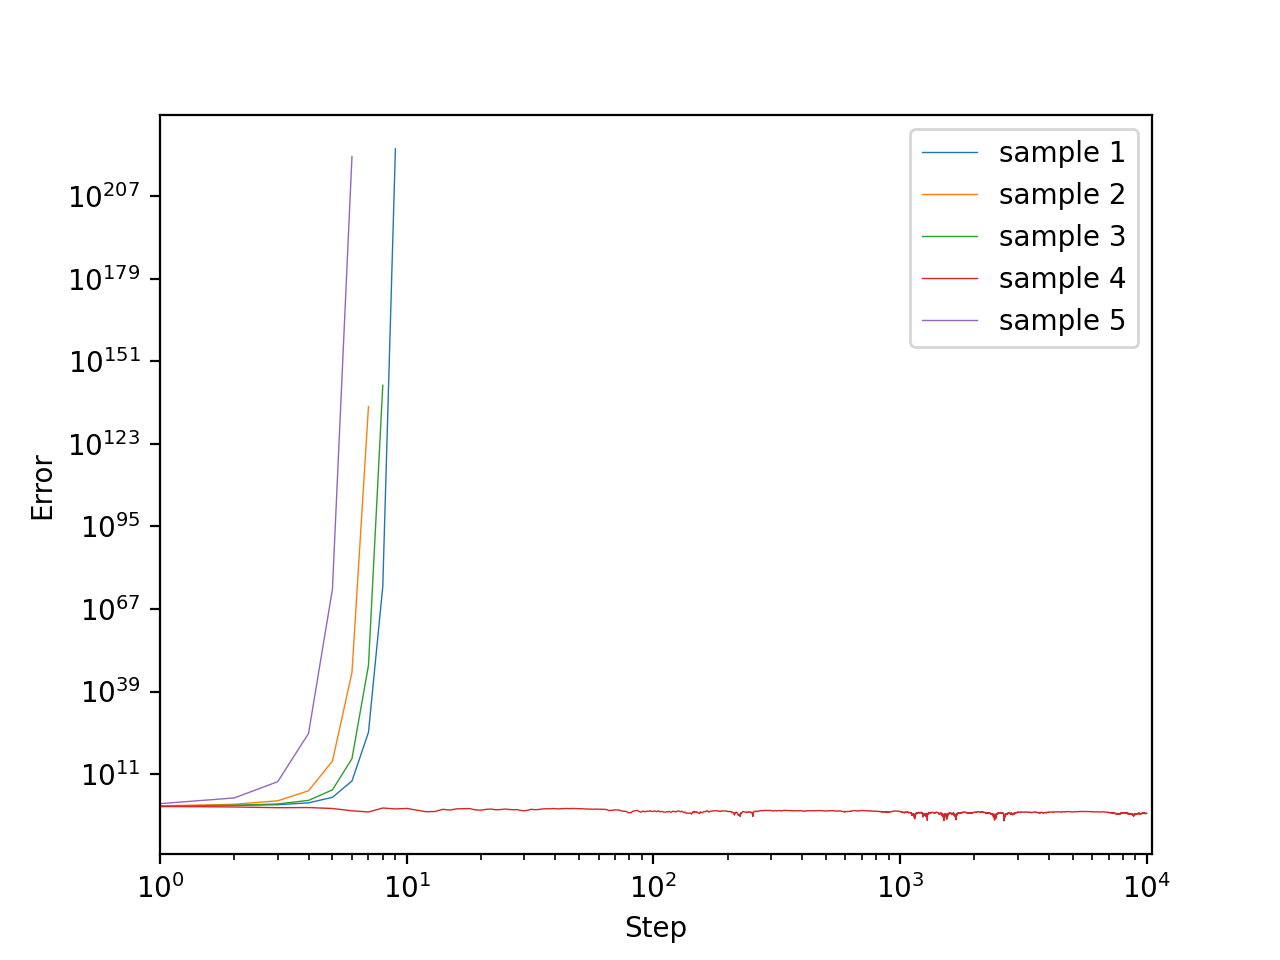
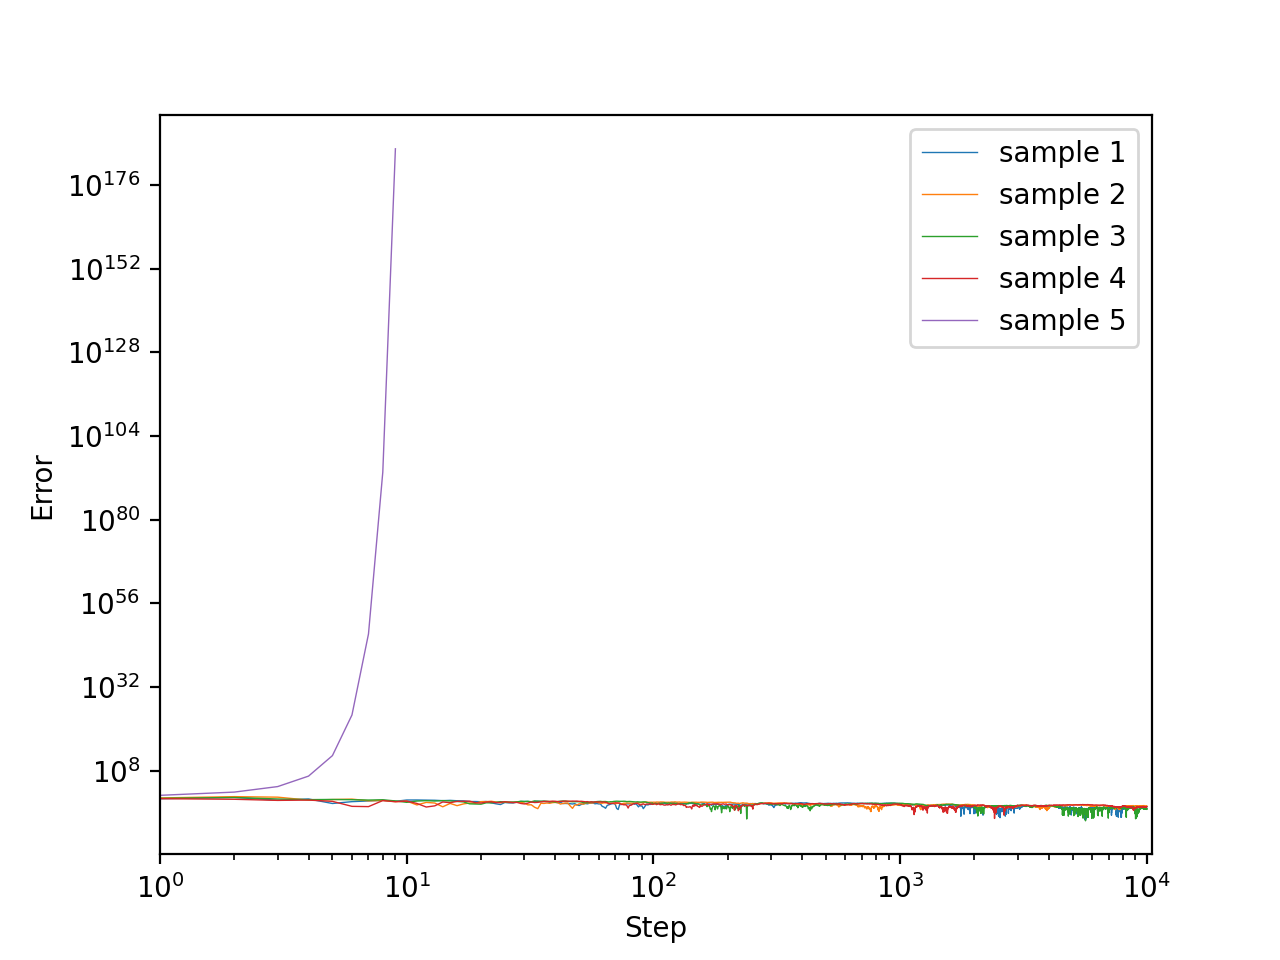
use Dvoretzky version instead of Blum

diff --git a/robbins-monro/run.py b/robbins-monro/run.py
@@ -5,25 +5,20 @@ from pathlib import Path
 import numpy as np
 
 
-################# Manual setup ##################
+################## Manual setup ##################
 
-target_value = 0.0   # α
-true_solution = 0.0  # θ
+true_solution = 0.0  # The root θ, only used for computing errors
 
 
 def true_func(x: float) -> float:
     return x + 2.0 * np.sin(x)
 
 
-def noise(x: float) -> float:
-    sigma = 1.0
-    return np.random.normal(loc=0.0, scale=sigma)
-
-#################################################
-
-
 def observe(x: float) -> float:
-    return true_func(x) + noise(x)
+    sigma = 1.0
+    return np.random.normal(loc=true_func(x), scale=sigma)
+
+##################################################
 
 
 def robbins_monro(n_steps: int, step_coef: float, step_power: float) -> list[float]:
@@ -36,7 +31,7 @@ def robbins_monro(n_steps: int, step_coef: float, step_power: float) -> list[flo
     for i in range(1, n_steps):
         a = step_coef / i**step_power
         y = observe(x)
-        x += a * (target_value - y)
+        x -= a * y
         path.append(x)
     return path
 

diff --git a/robbins-monro/README.md b/robbins-monro/README.md
@@ -1,58 +1,55 @@
 # Robbins-Monro algorithm
 
 ## Description
-The Robbins-Monro algorithm was proposed by Robbins and Monro (1951) and gradually improved by many authors. Here we state the version of Blum (1954).
+The Robbins-Monro algorithm was proposed by Robbins and Monro (1951) and was generalized by many people. Here we state the version proved by Section 7 of Dvoretzky (1956).
 
-Let $\\{H(\cdot|x)\\}_{x\in\mathbb{R}}$ be a family of distribution functions and let
-
-```math
-M(x) = \int_\mathbb{R}y\,\mathrm{d}H(y\mid x)\quad\text{for $x\in\mathbb{R}$}
-```
-
-be a measurable function. We can't know $M(x)$ directly, but we can choose any $x\in\mathbb{R}$ and sample according to the distribution $H(\cdot|x)$.
-In this setting, we want to approximate the solution $x=\theta$ to
+Let $\lbrace Y(x)\rbrace_{x\in\mathbb{R}}$ be a family of $\mathbb{R}$-valued random variables.
+Assume that the expected value
 
 ```math
-M(x) = \alpha
+M(x) = \mathbb{E}\lbrack Y(x)\rbrack
 ```
 
-for a given $\alpha\in\mathbb{R}$.
+exists for any $x\in\mathbb{R}$ and that $M:\mathbb{R}\to\mathbb{R}$ be a measurable function.
 
-We assume the following.
-1. $\exists c\gt 0$ s.t. $|M(x)|\le c(1+|x|)$ for $x\in\mathbb{R}$.
-1. $\exists\sigma\gt 0$ s.t. $\displaystyle\int_\mathbb{R}(y-M(x))^2\mathrm{d}H(y\mid x)\le\sigma^2$ for $x\in\mathbb{R}$.
-1. $M(x)\lt\alpha$ for $x\lt\theta$ &nbsp;&nbsp;and&nbsp;&nbsp; $M(x)\gt\alpha$ for $x\gt\theta$.
-1. $\displaystyle\inf_{\varepsilon\le|x-\theta|\le1/\varepsilon}|M(x)-\alpha|\gt 0$ for $\varepsilon>0$.
+We can't know $M(x)$ directly, but we can choose any $x\in\mathbb{R}$ and sample according to $Y(x)$.
+In this setting, we want to find the *root* of $M$.
+
+Let $\theta\in\mathbb{R}$. We assume that $M$ satisfies the following properties.
+1. $\exists C\gt 0,\exists D\gt 0$ s.t. $|M(x)|\le C+D|x|$ for $x\in\mathbb{R}$.
+1. $\exists\sigma\gt 0$ s.t. $\mathrm{Var}(Y(x))\le\sigma^2$ for $x\in\mathbb{R}$.
+1. $\displaystyle\sup_{\theta-1/\varepsilon\lt x\lt\theta-\varepsilon}M(x)\lt 0$ and $\displaystyle\inf_{\theta+\varepsilon\lt x\lt\theta+1/\varepsilon}M(x)\gt 0$ for $\varepsilon>0$.
 
 Let $(a_n)_{n=1}^\infty$ be a sequence of positive numbers satisfying
 
 ```math
-\sum_{n=1}^\infty a_n = \infty\quad\text{and}\quad\sum_{n=1}^\infty a_n^2<\infty.
+\sum_{n=1}^\infty a_n = \infty\quad\text{and}\quad
+\sum_{n=1}^\infty a_n^2 \lt \infty.
 ```
 
-For any $x_1\in\mathbb{R}$, define a sequence $(x_n)_{n=1}^\infty$ of random variables as
+For any $x_1\in\mathbb{R}$, define a sequence $(x_n)_{n=1}^\infty$ of numbers as
 
 ```math
-x_{n+1} = x_n + a_n(\alpha - y_n),
+x_{n+1} = x_n - a_n y_n,
 ```
 
-where $y_n$ is a random variable distributed according to $H(\cdot\mid x_n)$.
-Then, Blum (1954) proved that $x_n\overset{\textrm{a.s.}}{\longrightarrow}\theta$ as $n\to\infty$.
+where $y_n$ is an observation on the random variable $Y(x_n)$.
+Then, Dvoretzky (1956) proved that $(x_n)_{n=1}^\infty$ converges to $\theta$ both in $L^2$ and with probability $1$.
 
-Note that we actually find $\theta$ which satisfies assumption 3, and hence we don't need to assume $M(\theta)=\alpha$.
+Note that we actually find $\theta$ which satisfies assumption 3, and hence we don't need to impose $M(\theta)=0$.
 
 ## Experiments
-Set $M(x)=x+2\sin x$ and $H(\cdot\mid x)=\mathcal{N}(M(x),1)$ (the normal distribution of mean $M(x)$ and variance $1$). Here is the graph of $M$.
+Set $M(x)=x+2\sin x$ and $Y(x)=\mathcal{N}(M(x),1)$ (the normal distribution of mean $M(x)$ and variance $1$). Here is the graph of $M$.
 <div align="center">
     <img src="../resource/M1.png" width="40%">
 </div>
 
-Let $\alpha=0$ so that we find the solution $\theta=0$. $x_1$ is uniformly sampled from $[-10,10]$.
+The root of $M$ is $\theta=0$. $x_1$ is sampled from $[-10,10]$ uniformly.
 
 ### Experiment 1. $a_n=1/n$
 All assumptions stated above are satisfied.
 
-$5$ sample paths until $n=10^6$ are plotted. Here, the $x$-axis represents $n$ and the $y$-axis respresents $|x_n-\theta|$.
+$5$ sample paths until $n=10^6$ are plotted. Here, the $x$-axis represents $n$ and the $y$-axis represents $|x_n-\theta|$.
 ```bash
 for i in {0..4}; do
     python run.py 1000000 outputs/${i}.csv --seed ${i}
@@ -64,7 +61,7 @@ python ../plot.py outputs/0.csv outputs/1.csv outputs/2.csv outputs/3.csv output
     <img src="../resource/0.png" width="50%">
 </div>
 
-Looks good. The convegence rate may be a polynomial order. Note that the graph is log-log.
+Looks good. Noting that the graph is log-log, the convergence rate may be a polynomial order.
 
 ### Experiment 2. $a_n=1/n^{1.5}$
 One of the assumption $\displaystyle\sum_{n=1}^\infty a_n=\infty$ does not hold.
@@ -98,15 +95,15 @@ python ../plot.py outputs/0.csv outputs/1.csv outputs/2.csv outputs/3.csv output
 
 Each sample path may converge to $\theta$ but the convergence speed is significantly slow compared to experiment 1. The variance of $x_n$ is very large.
 
-### Experiment 4. $M(x)=x^3+2\sin x$ and $a_n=1/n$
+### Experiment 4. $M(x)=|x|x+2\sin x$ and $a_n=1/n$
 Assumption 1 does not hold.
 
 ```bash
-sed -i '' 's/x + 2.0 \* np.sin(x)/x \*\* 3 + 2.0 \* np.sin(x)/g' run.py
+sed -i '' 's/x + 2.0 \* np.sin(x)/x \* np.abs(x) + 2.0 \* np.sin(x)/g' run.py
 for i in {0..4}; do
     python run.py 10000 outputs/${i}.csv --seed ${i}
 done
-sed -i '' 's/x \*\* 3 + 2.0 \* np.sin(x)/x + 2.0 \* np.sin(x)/g' run.py
+sed -i '' 's/x \* np.abs(x) + 2.0 \* np.sin(x)/x + 2.0 \* np.sin(x)/g' run.py
 python ../plot.py outputs/0.csv outputs/1.csv outputs/2.csv outputs/3.csv outputs/4.csv \
                   -o ../resource/3.png --alpha 1.0
 ```
@@ -114,7 +111,7 @@ python ../plot.py outputs/0.csv outputs/1.csv outputs/2.csv outputs/3.csv output
     <img src="../resource/3.png" width="50%">
 </div>
 
-All sample paths except one diverged.
+A sample path diverged.
 
 ### Experiment 5. $M(x)=x+7\sin x$ and $a_n=1/n$
 Assumption 3 does not hold.
@@ -136,4 +133,4 @@ python ../plot.py outputs/0.csv outputs/1.csv outputs/2.csv outputs/3.csv output
     <img src="../resource/4.png" width="50%">
 </div>
 
-Some sample path converged to one of the other zero of $M$.
+A sample path converged to one of the other zero of $M$.
